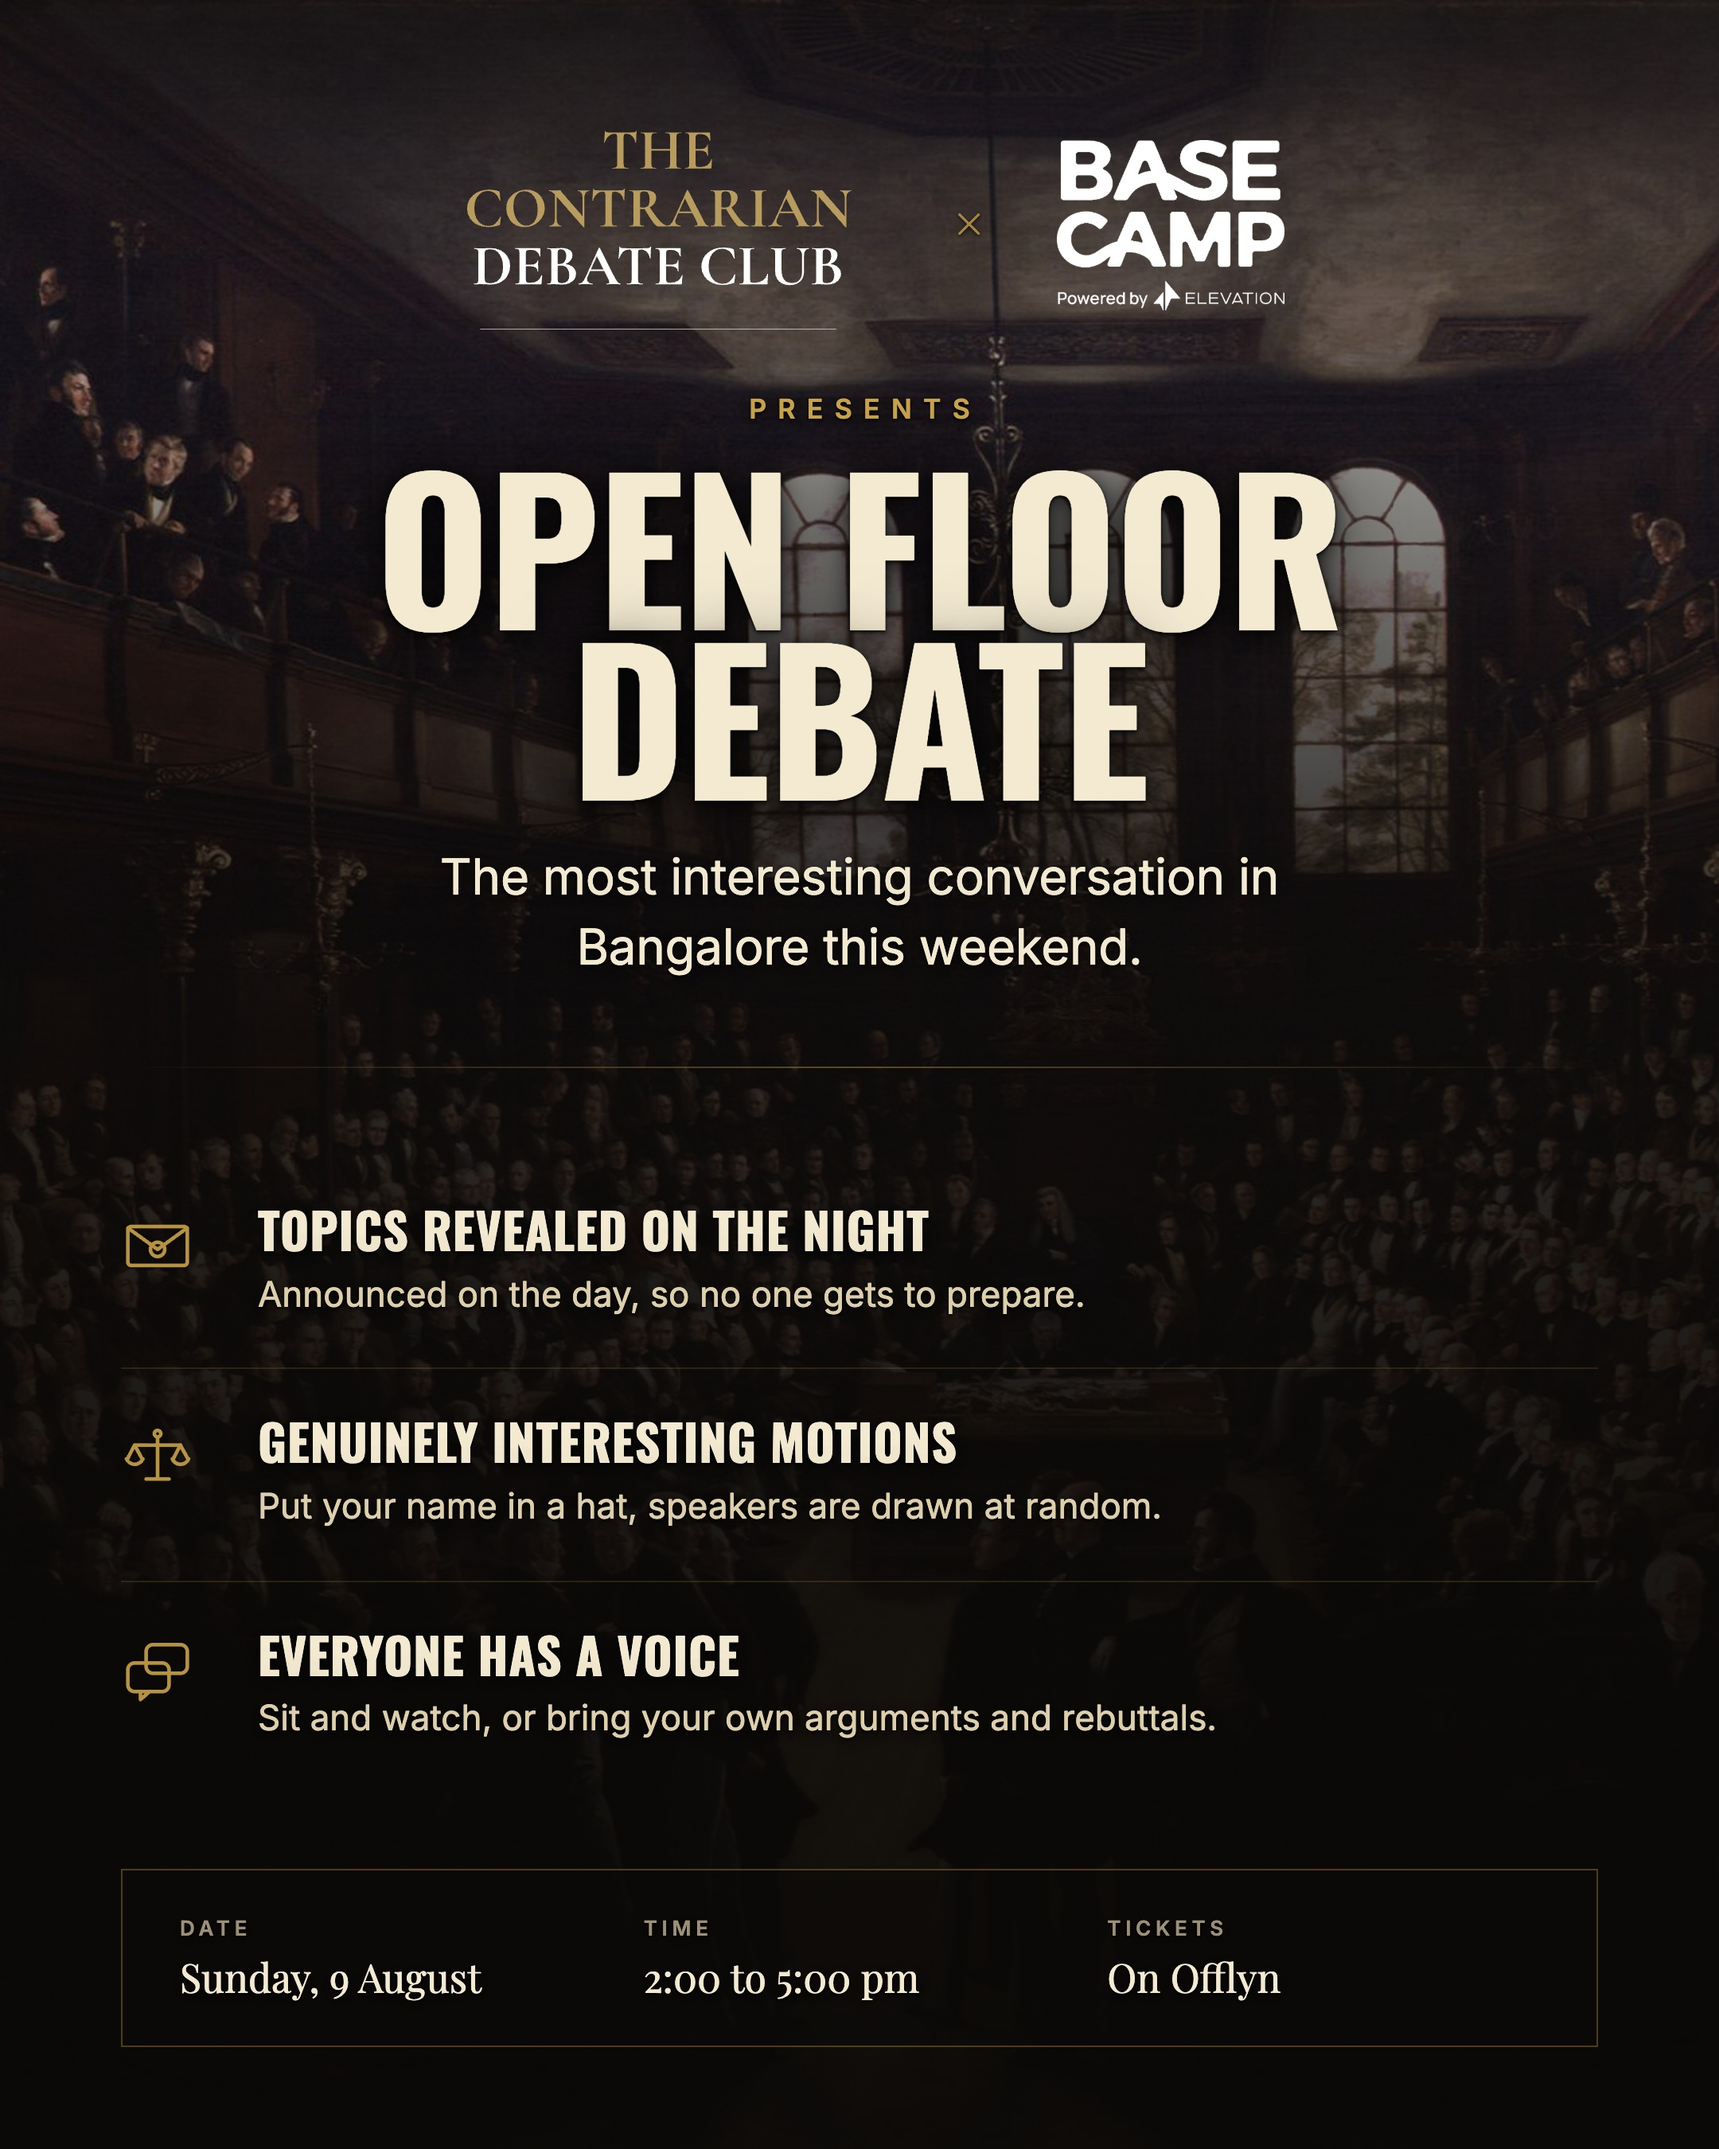
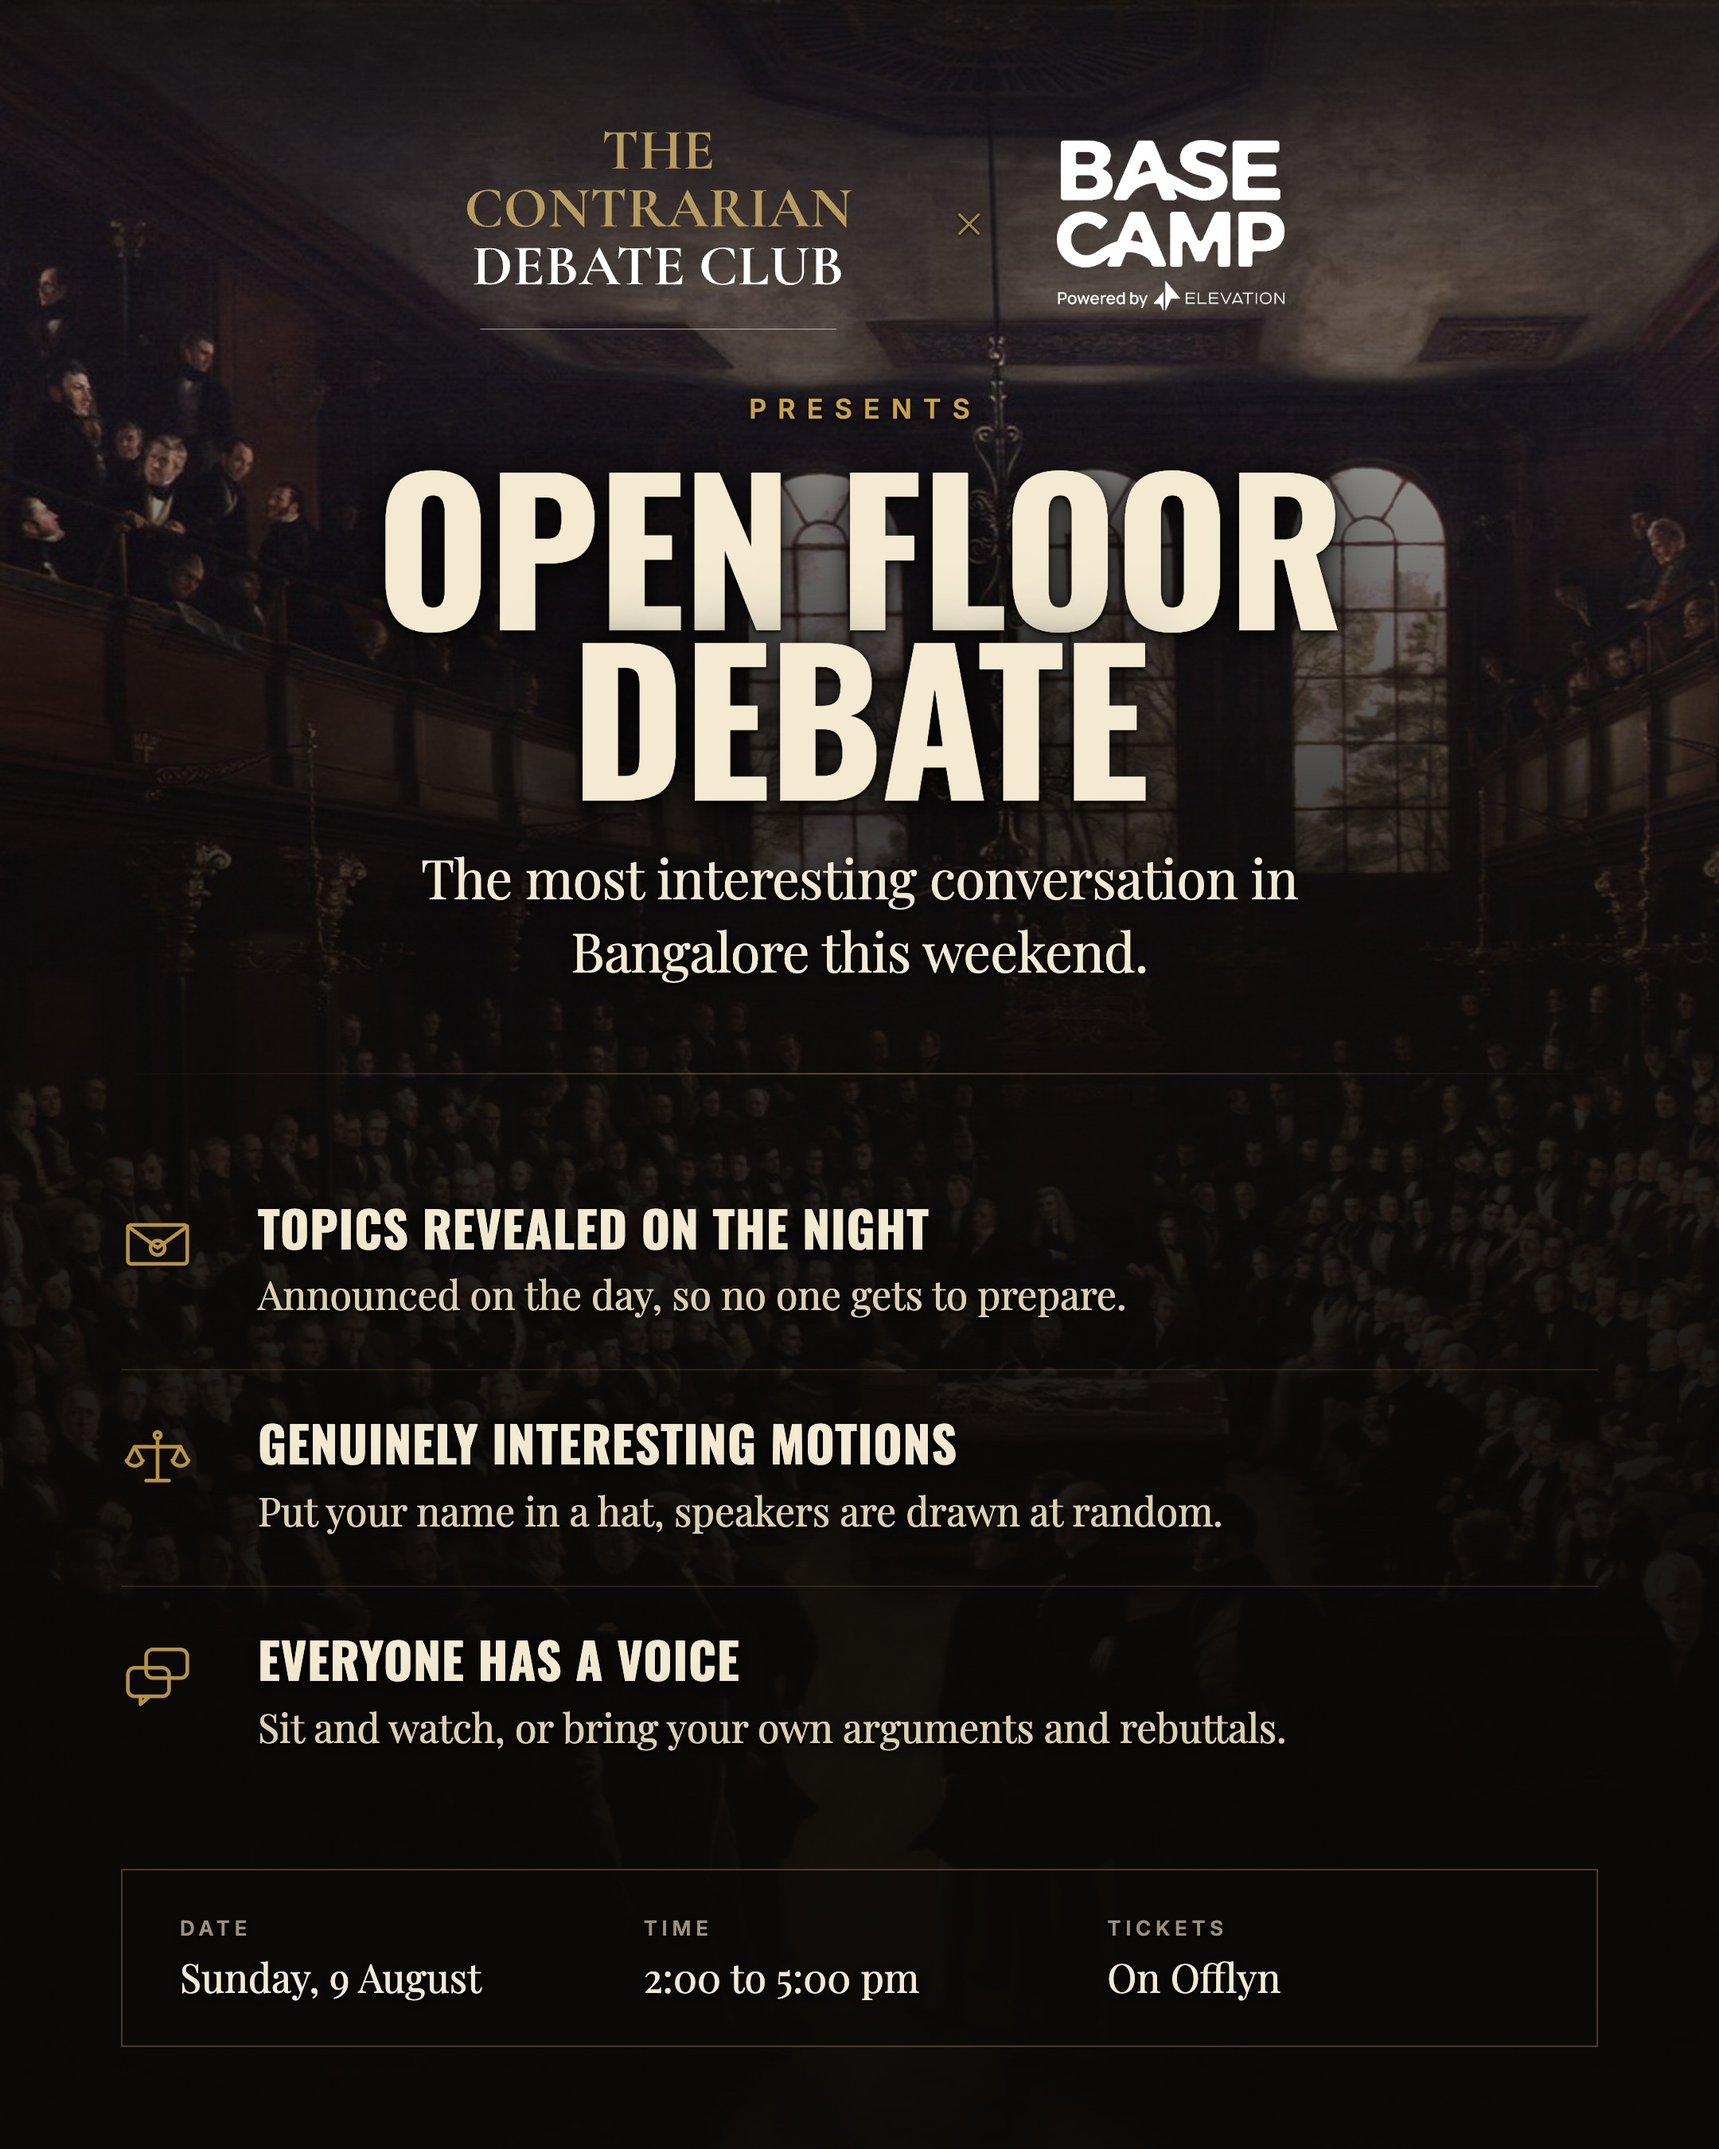
type(posters): put the poster's prose on the display serif
Inter was carrying the one-liner and all three format lines, which is why the
poster read as generic below the title: the only distinctive text on it was
the details plate, set in Playfair.

Both now use the display serif, upright. The italic was what did not belong
when I first tried it here, not the serif. That leaves each face with one
job: Oswald shouts, Playfair talks, and Inter is reduced to the small tracked
caps labels where a neutral face is the right answer.

diff --git a/posters/works/2026-08-09-open-floor-debate/slides.tsx b/posters/works/2026-08-09-open-floor-debate/slides.tsx
@@ -738,9 +738,10 @@ function Beat({ icon, label, body }: { icon: IconName; label: string; body: stri
         </span>
         <span
           style={{
-            fontFamily: "var(--cc-font-ui)",
-            fontSize: 22,
-            lineHeight: 1.44,
+            fontFamily: "var(--cc-font-display)",
+            fontSize: 25,
+            lineHeight: 1.36,
+            letterSpacing: "-0.004em",
             color: "var(--cc-parchment)",
           }}
         >
@@ -811,21 +812,21 @@ export function Poster({
             {copy.title}
           </h1>
 
-          {/* Set in the UI face, not the display italic. Three type voices on
-              one poster was one too many: the italic serif read as a caption
-              lifted off a different piece, and it had to hold its own directly
-              under a heavy condensed title. This is a claim, so it is set
-              plainly and lets the claim do the work. */}
+          {/* Upright display serif, the same face the details plate sets its
+              values in. The italic was what did not belong here, not the
+              serif: it read as a caption lifted off another piece. Inter was
+              worse in the other direction, generic where this line has to
+              carry the whole claim. */}
           <p
             style={{
-              fontFamily: "var(--cc-font-ui)",
+              fontFamily: "var(--cc-font-display)",
               fontWeight: 400,
-              fontSize: 31,
-              lineHeight: 1.4,
-              letterSpacing: "-0.005em",
+              fontSize: 34,
+              lineHeight: 1.34,
+              letterSpacing: "-0.008em",
               color: "var(--cc-ivory)",
               margin: "28px auto 0",
-              maxWidth: "31ch",
+              maxWidth: "29ch",
               textAlign: "center",
             }}
           >
